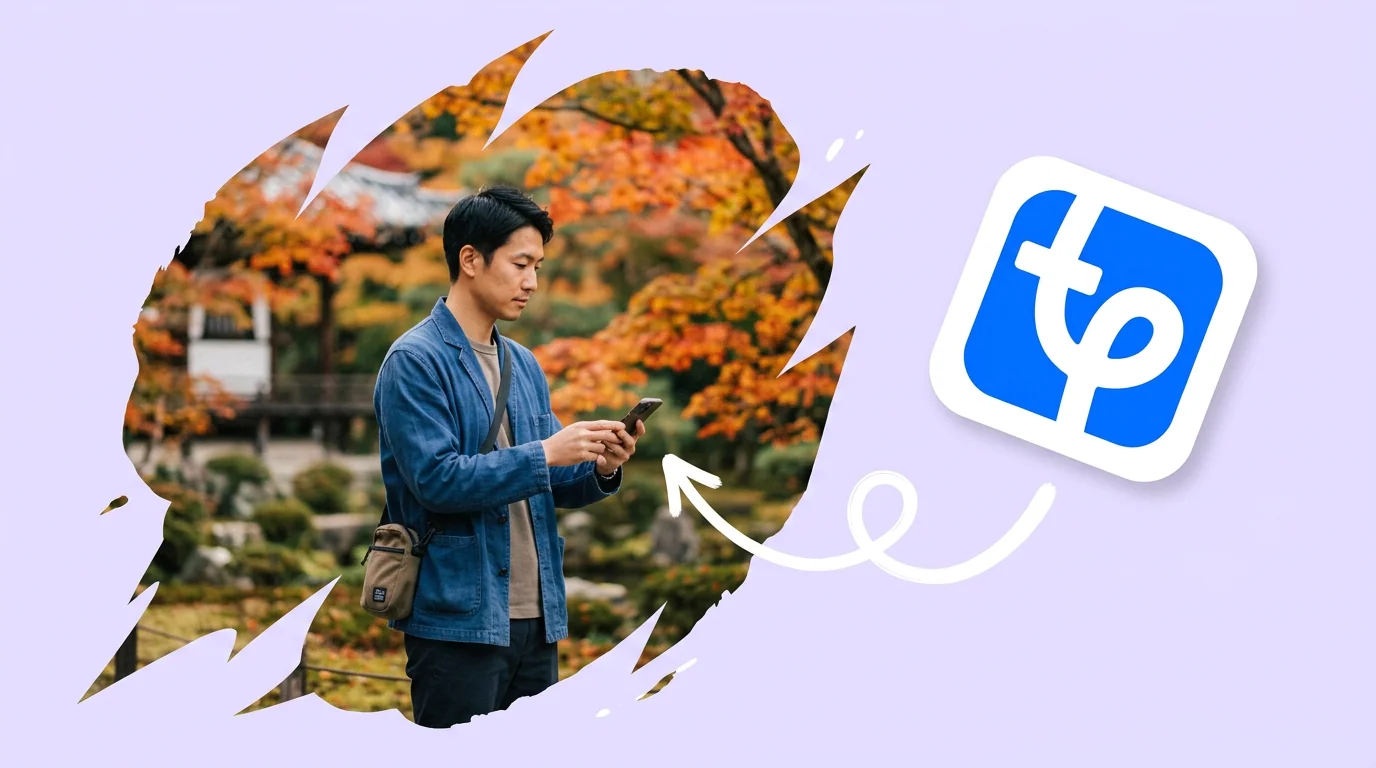
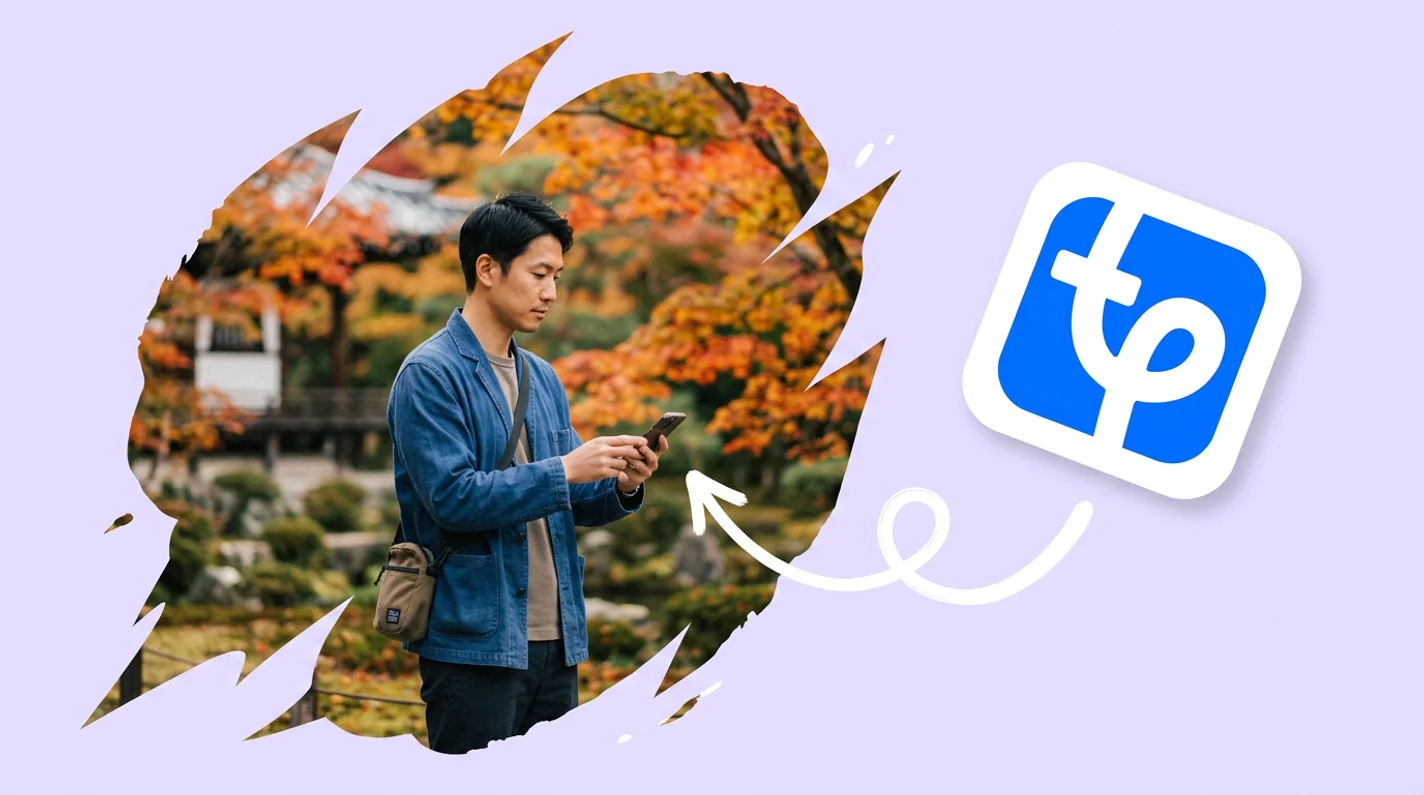
feat(assets): add retina covers and card variants

diff --git a/src/data/covers.ts b/src/data/covers.ts
@@ -15,6 +15,17 @@ import niche from '../assets/home/pick-niche-featured.webp';
 import blogIncome from '../assets/home/travel-blog-income-featured.webp';
 import clickReward from '../assets/home/click-reward-featured.webp';
 
+// Downscaled card renditions emitted next to the 1424px covers (convert.mjs). Keyed by slug so the
+// registry does not need a second manual entry per article; falls back to the full cover when absent.
+const cardFiles = import.meta.glob<ImageMetadata>('../assets/home/*-card.webp', {
+  eager: true,
+  import: 'default',
+});
+const cardBySlug = new Map(
+  Object.entries(cardFiles).map(([key, img]) => [key.slice(key.lastIndexOf('/') + 1).replace(/-card\.webp$/, ''), img]),
+);
+export const coverCard = (slug: string) => cardBySlug.get(slug);
+
 export const covers: Record<string, { img: ImageMetadata; alt: [string, string] }> = {
   // from the design
   'sales-calendar': { img: sales, alt: ['雪の集落でスマホを見る旅行者と Travelpayouts の吹き出し', 'A smiling traveller in earmuffs checking her phone in a snowy village of thatched houses, beside a Travelpayouts speech bubble'] },

diff --git a/docs/featured-images.md b/docs/featured-images.md
@@ -35,7 +35,7 @@
 
 | Элемент | Правило |
 |---|---|
-| Формат | 16:9 (`image_config.aspect_ratio`), ~1376×768; для OG при необходимости кадрируется до 1200×630 |
+| Формат | 16:9 (`image_config.aspect_ratio`), генератор отдаёт ~1376×768; конвертер приводит к **1424 px** по ширине (712 CSS px × 2, retina для колонки чтения, ~1424×795) и делает уменьшенную копию **832 px** для карточек (~832×464) |
 | Фон | сплошной или мягкий градиент; очень светлый тинт цвета категории (`categories.c`, 14% + белый); «воздушный» |
 | Биом, сцена, одежда | всё берётся из таблицы `BIOMES` (13 биомов: mediterranean, tropical, jungle, desert, mountain, winter, city, japan_traditional, cherry_blossom, savanna, arctic, lakeside, countryside). Для каждого: 3 сцены фона и 2–3 наряда **отдельно для мужчины и женщины**; выбор по хэшу слага (`--scene=N`, `--outfit=N`). Джинсовая куртка и коричневый рюкзак явно запрещены |
 | Поза и ракурс | 4 варианта `FACINGS` (влево, вправо, почти анфас, вполоборота влево; `--facing=N`), выбор по хэшу слага независимо от раскладки |
@@ -74,11 +74,16 @@
 
 ### 3.1. Конвертация в WebP (`tools/featured-image/convert.mjs`)
 
-Шаг между генерацией и коммитом: PNG из `out/featured/` → `src/assets/home/<slug>-featured.webp` (качество 85). В репозиторий попадает только WebP — ресайзы для `srcset` делает Astro при сборке, поэтому исходник нужен один.
+Шаг между генерацией и коммитом: PNG из `out/featured/` → два WebP в `src/assets/home/` (качество 85):
 
-- `npm run covers` — конвертирует все найденные слаги; `npm run covers -- ai-seo click-reward` — только указанные. `--dry` показывает план без записи.
+- `<slug>-featured.webp` — **1424 px** по ширине (712 CSS px × 2, retina-обложка статьи), 16:9;
+- `<slug>-card.webp` — **832 px** по ширине (416 CSS px × 2, retina-превью карточки).
+
+В репозиторий попадают только эти WebP; ресайзы под `srcset` Astro делает при сборке.
+
+- `npm run covers` — конвертирует все найденные слаги; `npm run covers -- ai-seo click-reward` — только указанные. `--dry` показывает план без записи; ширины переопределяются через `--master=1424` и `--card=832`.
 - Имя файла зависит только от слага, а не от стиля. Если вариантов несколько (`-tile`, `-bubble`, `-polaroid`, прогоны с `--suffix`), берётся самый свежий по mtime, остальные перечисляются в отчёте.
-- `covers.ts` скрипт не меняет, а только сверяется с ним: если слаг там не указан или указывает на другую картинку, это выводится в отчёте строкой без `⚠`. Подключение — ручной шаг: импорт `img` и пара `alt` (ja/en) в `covers.ts`.
+- `covers.ts` скрипт не меняет, а только сверяется с ним: если слаг там не указан или указывает на другую картинку, это выводится в отчёте строкой без `⚠`. Подключение — ручной шаг: импорт `img` и пара `alt` (ja/en) в `covers.ts`. Карточные копии подхватываются автоматически через `coverCard()` (glob по `*-card.webp`), а при отсутствии копии card использует полную обложку. Копия создаётся только для слагов, чья обложка в `covers.ts` — именно сгенерированный мастер; для дизайнерских иллюстраций карточка берёт исходный jpg (Astro сам не апскейлит — ширина замирает на нативной).
 
 ## 4. Контроль качества
 
